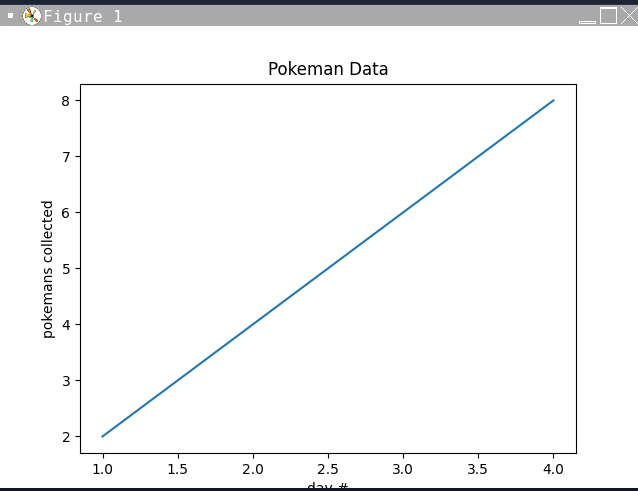
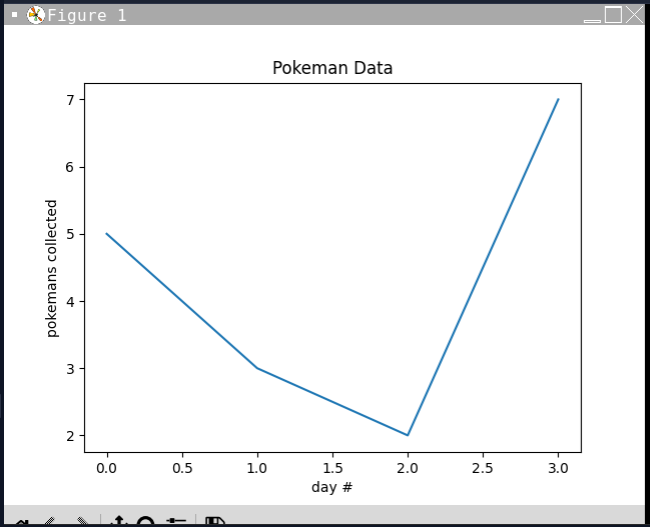
Add files via upload

diff --git a/P2T1v2_Boyd.py b/P2T1v2_Boyd.py
@@ -1,0 +1,34 @@
+import matplotlib.pyplot as plt
+
+# Collect the data
+data = [] # empty list
+"""
+
+print("Enter Pokeman data:")
+print("Day 1: ", end="")
+day1 = int(input())
+print("Day 2: ", end="")
+day2 = int(input())
+print("Day 3: ", end="")
+day3 = int(input())
+"""
+# New Version - loop and get each dat at a time\
+num_days = int(input("How many days?"))
+for day in range(num_days):
+  print("Day ", day, ":", end="")
+  today = int(input())
+  data.append(today) # add it to the end of the list
+  
+# put the data in a list (Done)
+# print min and max
+print("Best day:", max(data))
+print("Worst day:", min(data))
+# don't do total and average yet    
+# TODO: Graph the real data
+fig, ax = plt.subplots()
+ax.plot(range(num_days), data)
+plt.title("Pokeman Data")
+plt.xlabel('day #')
+plt.ylabel('pokemans collected')
+plt.show()
+
